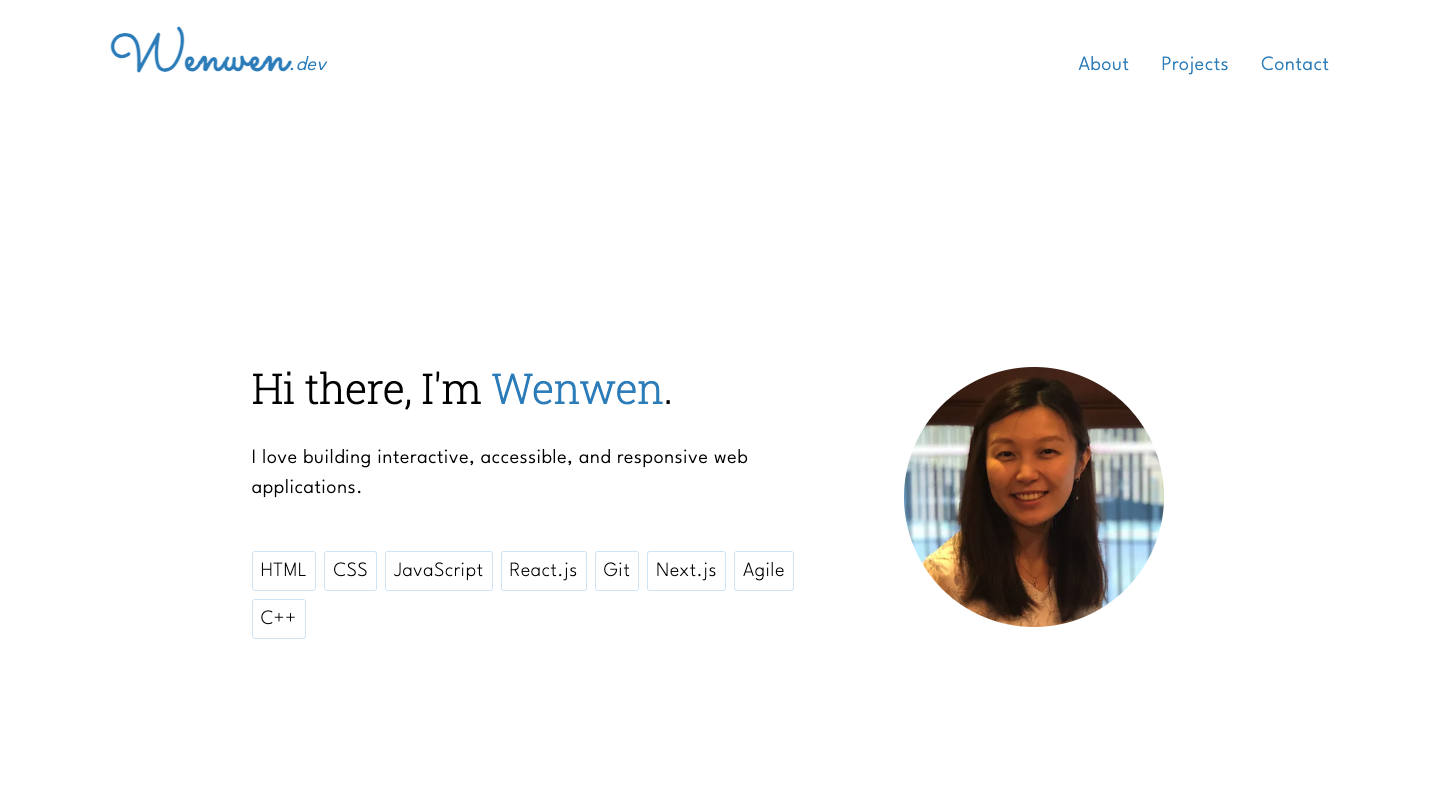
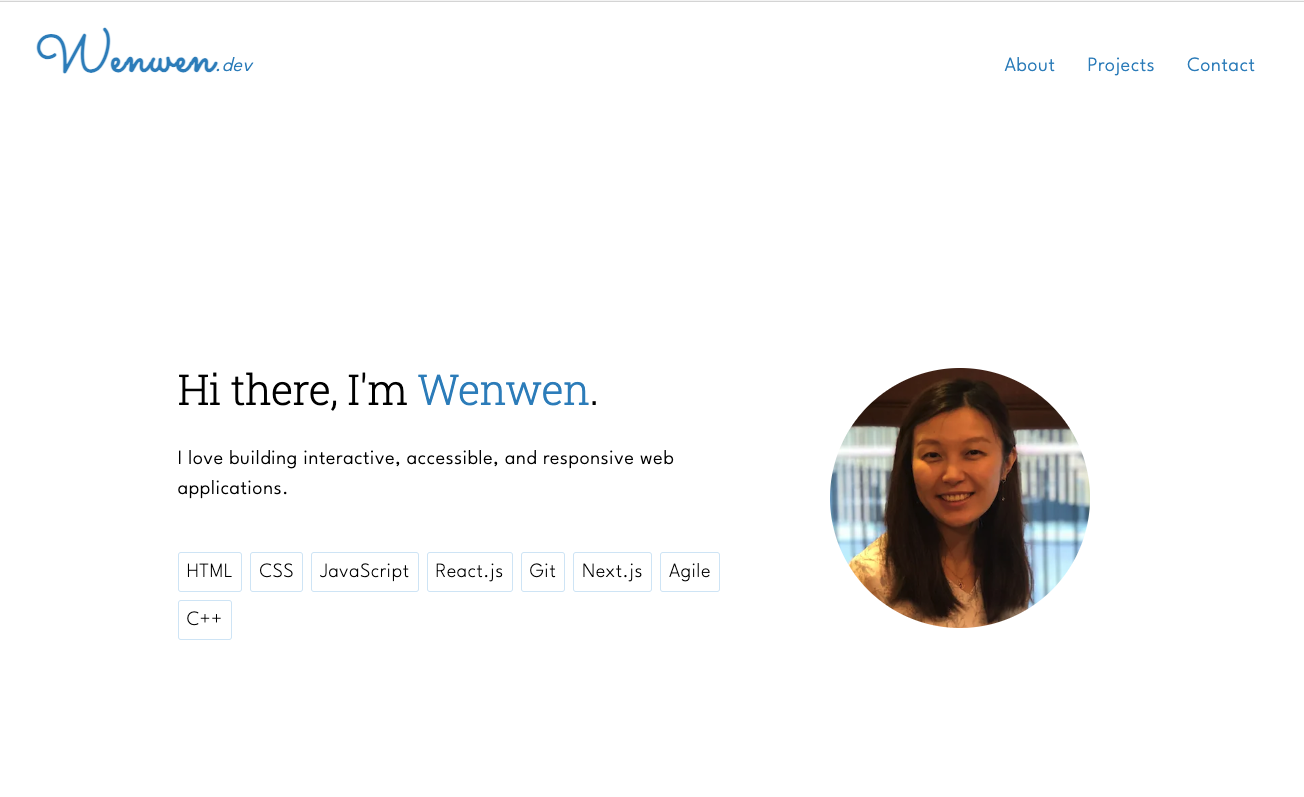
Use nextjs Image for all images

diff --git a/app/components/Card/Card.js b/app/components/Card/Card.js
@@ -2,18 +2,29 @@ import React from 'react';
 import styles from './Card.module.css';
 import Button from '../Button/Button';
 import Link from 'next/link';
+import Image from 'next/image';
 
 const Card = ({ project }) => {
   // const delegatedStyles = className;
 
   return (
     <div className={styles.wrapper}>
-      <Link className={styles.imageWrapper} href={project.href}>
-        <img
-          className={styles.image}
-          src={project.imgSrc}
-          alt={project.imgAlt}
-        />
+      <Link href={project.href} style={{ position: 'relative' }}>
+        <div className={styles.imageWrapper}>
+          <Image
+            src={project.imgSrc}
+            alt={project.imgAlt}
+            fill
+            sizes='100%'
+            style={{
+              borderRadius: '8px',
+              objectFit: 'cover',
+              objectPosition: 'left top',
+              boxShadow:
+                '0 1px 3px 0 rgba(0, 0, 0, 0.1),0 1px 2px 0 rgba(0, 0, 0, 0.06)',
+            }}
+          />
+        </div>
       </Link>
       <div className={styles.projectDescription}>
         <h3>{project.title}</h3>

diff --git a/app/components/Hero/Hero.js b/app/components/Hero/Hero.js
@@ -2,6 +2,7 @@ import React from 'react';
 import styles from './Hero.module.css';
 import profileImg from '../../../public/profile.png';
 import { fontHeading } from '@/app/fonts';
+import Image from 'next/image';
 
 const Main = () => {
   return (
@@ -27,9 +28,14 @@ const Main = () => {
             <li className={styles.listItem}>C++</li>
           </ul>
         </div>
-        <div className={styles.imageWrapper}>
-          <img src='/profile.png' alt='profile-photo' />
-        </div>
+        <Image
+          src={profileImg}
+          alt='profile picture of Wenwen'
+          width={300}
+          height={300}
+          sizes='300px (max-width: 650px) 60vw'
+          style={{ borderRadius: '50%', objectFit: 'cover', flexShrink: 0 }}
+        />
       </div>
     </div>
   );

diff --git a/app/components/Card/Card.module.css b/app/components/Card/Card.module.css
@@ -27,20 +27,12 @@
 
 .imageWrapper {
   border-radius: 8px;
-  overflow: hidden;
+  /* overflow: hidden; */
   width: 100%;
   height: 300px;
   box-shadow: 0 1px 3px 0 rgba(0, 0, 0, 0.1),0 1px 2px 0 rgba(0, 0, 0, 0.06);
 }
 
-.image {
-  width: 100%;
-  height: 100%;
-  object-fit:cover;
-  object-position: left top;
-  display: block;
-
-}
 
 @media (max-width: 950px) {
 }

diff --git a/app/components/Hero/Hero.module.css b/app/components/Hero/Hero.module.css
@@ -34,23 +34,6 @@
   margin-bottom: 24px;
 }
 
-.imageWrapper {
-  display: block;
-  width: 300px;
-  height: 300px;
-  align-items: center;
-  border-radius: 50%;
-  overflow: hidden;
-}
-
-.imageWrapper img {
-  display: block;
-  width: 100%;
-  height: 100%;
-  object-fit: cover;
-  object-position: center;
-}
-
 .list {
   display: flex;
   list-style-type: none;
